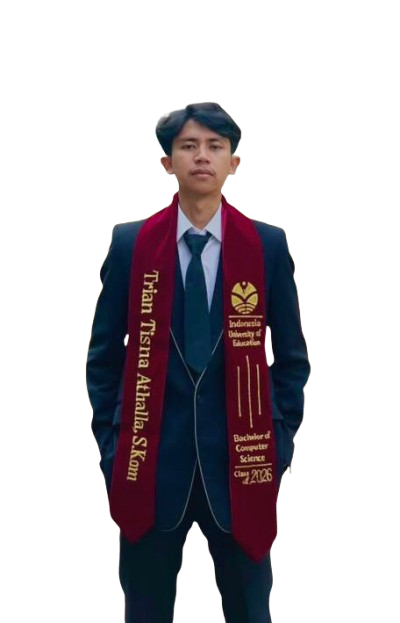
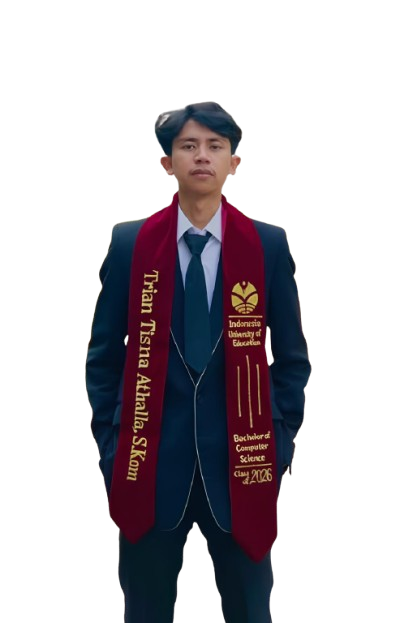
fix image and text reveal

diff --git a/index.html b/index.html
@@ -3,7 +3,7 @@
   <head>
     <meta charset="UTF-8" />
     <meta name="viewport" content="width=device-width, initial-scale=1.0" />
-    <title>Trian Tisna — Front-End / Full-Stack Engineer</title>
+    <title>Trian Tisna Athalla — Front-End / Full-Stack Engineer</title>
 
     <!-- Fonts -->
     <link rel="preconnect" href="https://fonts.googleapis.com" />
@@ -530,6 +530,7 @@
       }
 
       /* Text Reveal Animations */
+      /* Text Reveal Animations */
       .reveal-wrap {
         overflow: hidden;
         display: block;
@@ -545,6 +546,12 @@
       .in-view .reveal-inner {
         transform: translateY(0);
         opacity: 1;
+      }
+
+      /* Memaksa huruf berjejer ke samping, bukan ke bawah */
+      .split-letters .reveal-wrap,
+      .split-letters .reveal-inner {
+        display: inline-block;
       }
 
       /* Fade + Slide Up */
@@ -614,7 +621,7 @@
 
     <div id="preloader">
       <div class="preloader-content" id="pre-content">
-        <div class="font-display h3-text">Trian Tisna</div>
+        <div class="font-display h3-text">Trian Tisna Athalla</div>
         <div class="font-display display-text">
           <span id="counter">0</span><span style="color: var(--accent)">%</span>
         </div>
@@ -624,9 +631,9 @@
     <header id="nav">
       <nav>
         <a href="#top" class="logo">
-          <div class="monogram">TT</div>
+          <div class="monogram">TTA</div>
           <div class="eyebrow-text eyebrow-style" style="color: var(--muted)">
-            Trian Tisna
+            Trian Tisna Athalla
           </div>
         </a>
         <ul class="nav-links">
@@ -644,7 +651,7 @@
       <section id="top">
         <div class="hero-top-row">
           <h2 class="font-display h3-text split-lines" id="hero-roles">
-            Front-End<br />Full-Stack<br />Developer<br />CS Graduate
+            Front-End<br />Full-Stack<br />Developer<br />Fresh Graduate
           </h2>
           <p
             class="body-text hero-desc fade-up"
@@ -662,7 +669,7 @@
           <img
             src="./assets/profile.png"
             style="filter: url(#liquid-filter)"
-            alt="Trian Tisna"
+            alt="Trian Tisna Athalla"
           />
         </div>
         <div class="gradient-base"></div>
@@ -1150,7 +1157,7 @@
                 letter-spacing: 0.14em;
               "
             >
-              CS Graduation Class Year
+              Fresh Graduate
             </dt>
           </div>
         </dl>
@@ -1309,7 +1316,7 @@
           "
         >
           <div style="grid-column: span 6">
-            <p class="font-display h2-text">Trian Tisna</p>
+            <p class="font-display h2-text">Trian Tisna Athalla</p>
             <p
               class="eyebrow-text"
               style="
